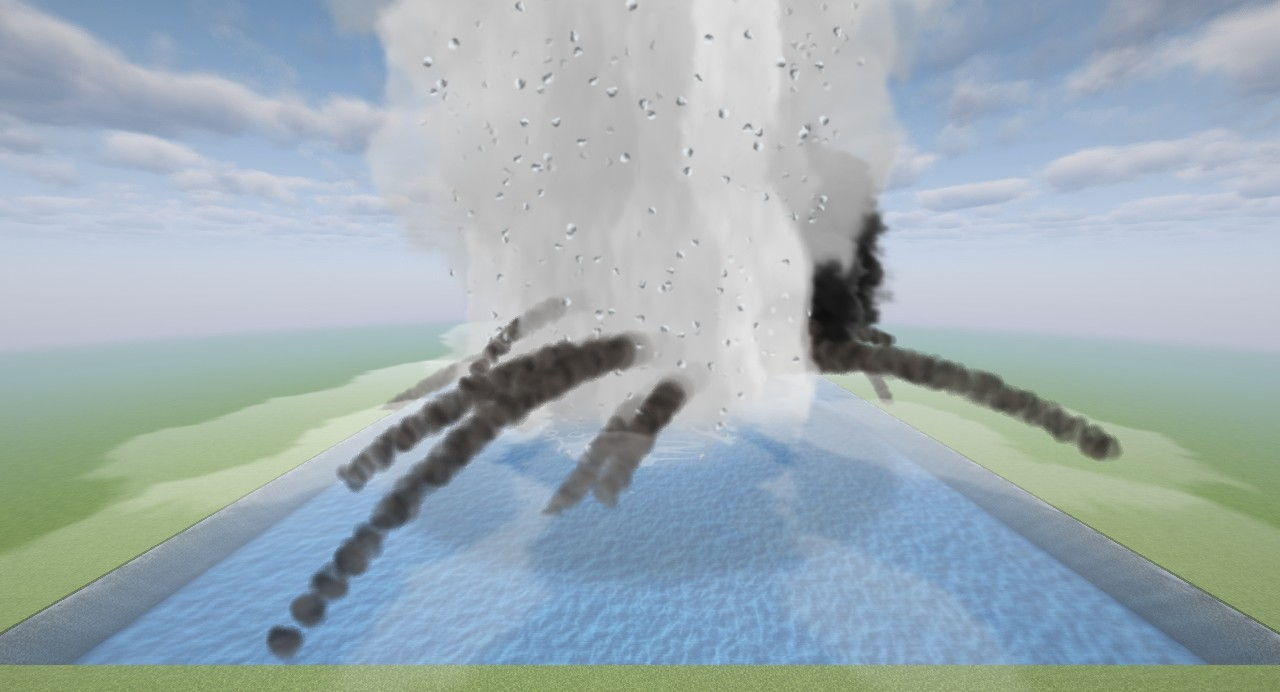
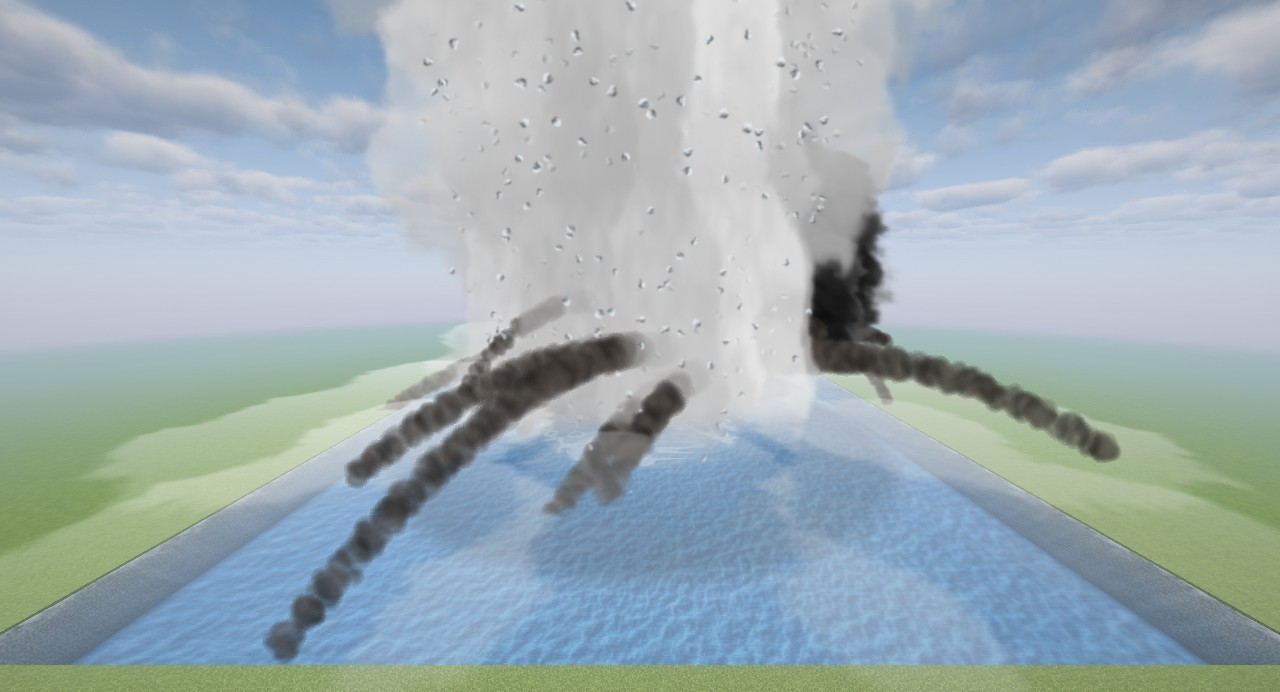
WT2 evidence: review round 2 (dfe499529) against main 46135bf3f

diff --git a/README.md b/README.md
@@ -5,7 +5,7 @@ Sandbox (`tools/sandbox.sh`, Iris + the host's shaderpack), same commands on bot
 - grad-day: `raid 12 15 1 rocket water`, `--cam '30 14 0 6'` (12 Grad shells into the pond within 15 m, 1 s apart; camera 30 m away, 14 m up), frames at 3/6/12/20 s from the first blast.
 - water-day-50: `blast drone 1 water`, `--cam '50 18 0 8'`, frames at 0.1/1/3/10/30 s.
 
-Top row `main` 5da7f6c (mod sources of origin/main, same sandbox), bottom row the PR head 2c139a5e8. Full frames in `frames/`.
-Layer timing from the `SANDBOX shot` lines (62 fps, vsync): salvo layer CPU 1.0–1.2 ms on main, 1.3–1.7 ms on the PR; GPU 0.9–3.2 ms on main, 1.3–2.8 ms on the PR.
+Top row `main` 46135bf3f (mod sources of origin/main with #444, same sandbox), bottom row the PR head dfe499529 (cone from the whole-flight envelope, review round 2). Full frames in `frames/`.
+Layer timing from the `SANDBOX shot` lines (62 fps, vsync), salvo 3/6/12/20 s: main CPU 1.12/1.20/1.11/0.34 ms, GPU 1.34/2.85/3.18/0.93 ms; PR CPU 1.19/1.50/1.53/0.21 ms, GPU 1.13/2.23/2.42/0.97 ms.
 
 Other users of segment puffs (now merged/budgeted, each with its own frame): `launch missile` (`--cam '60 4 90 6'`, launch ground dust row, 0.5/1.5/3 s) — `launch.jpg`; `nuke 15 near` (`--cam '60 15 0 5'`, debris-scene dust streaks, 0.1/1/3 s) — `nuke-near.jpg`. Top main, bottom the PR head.
